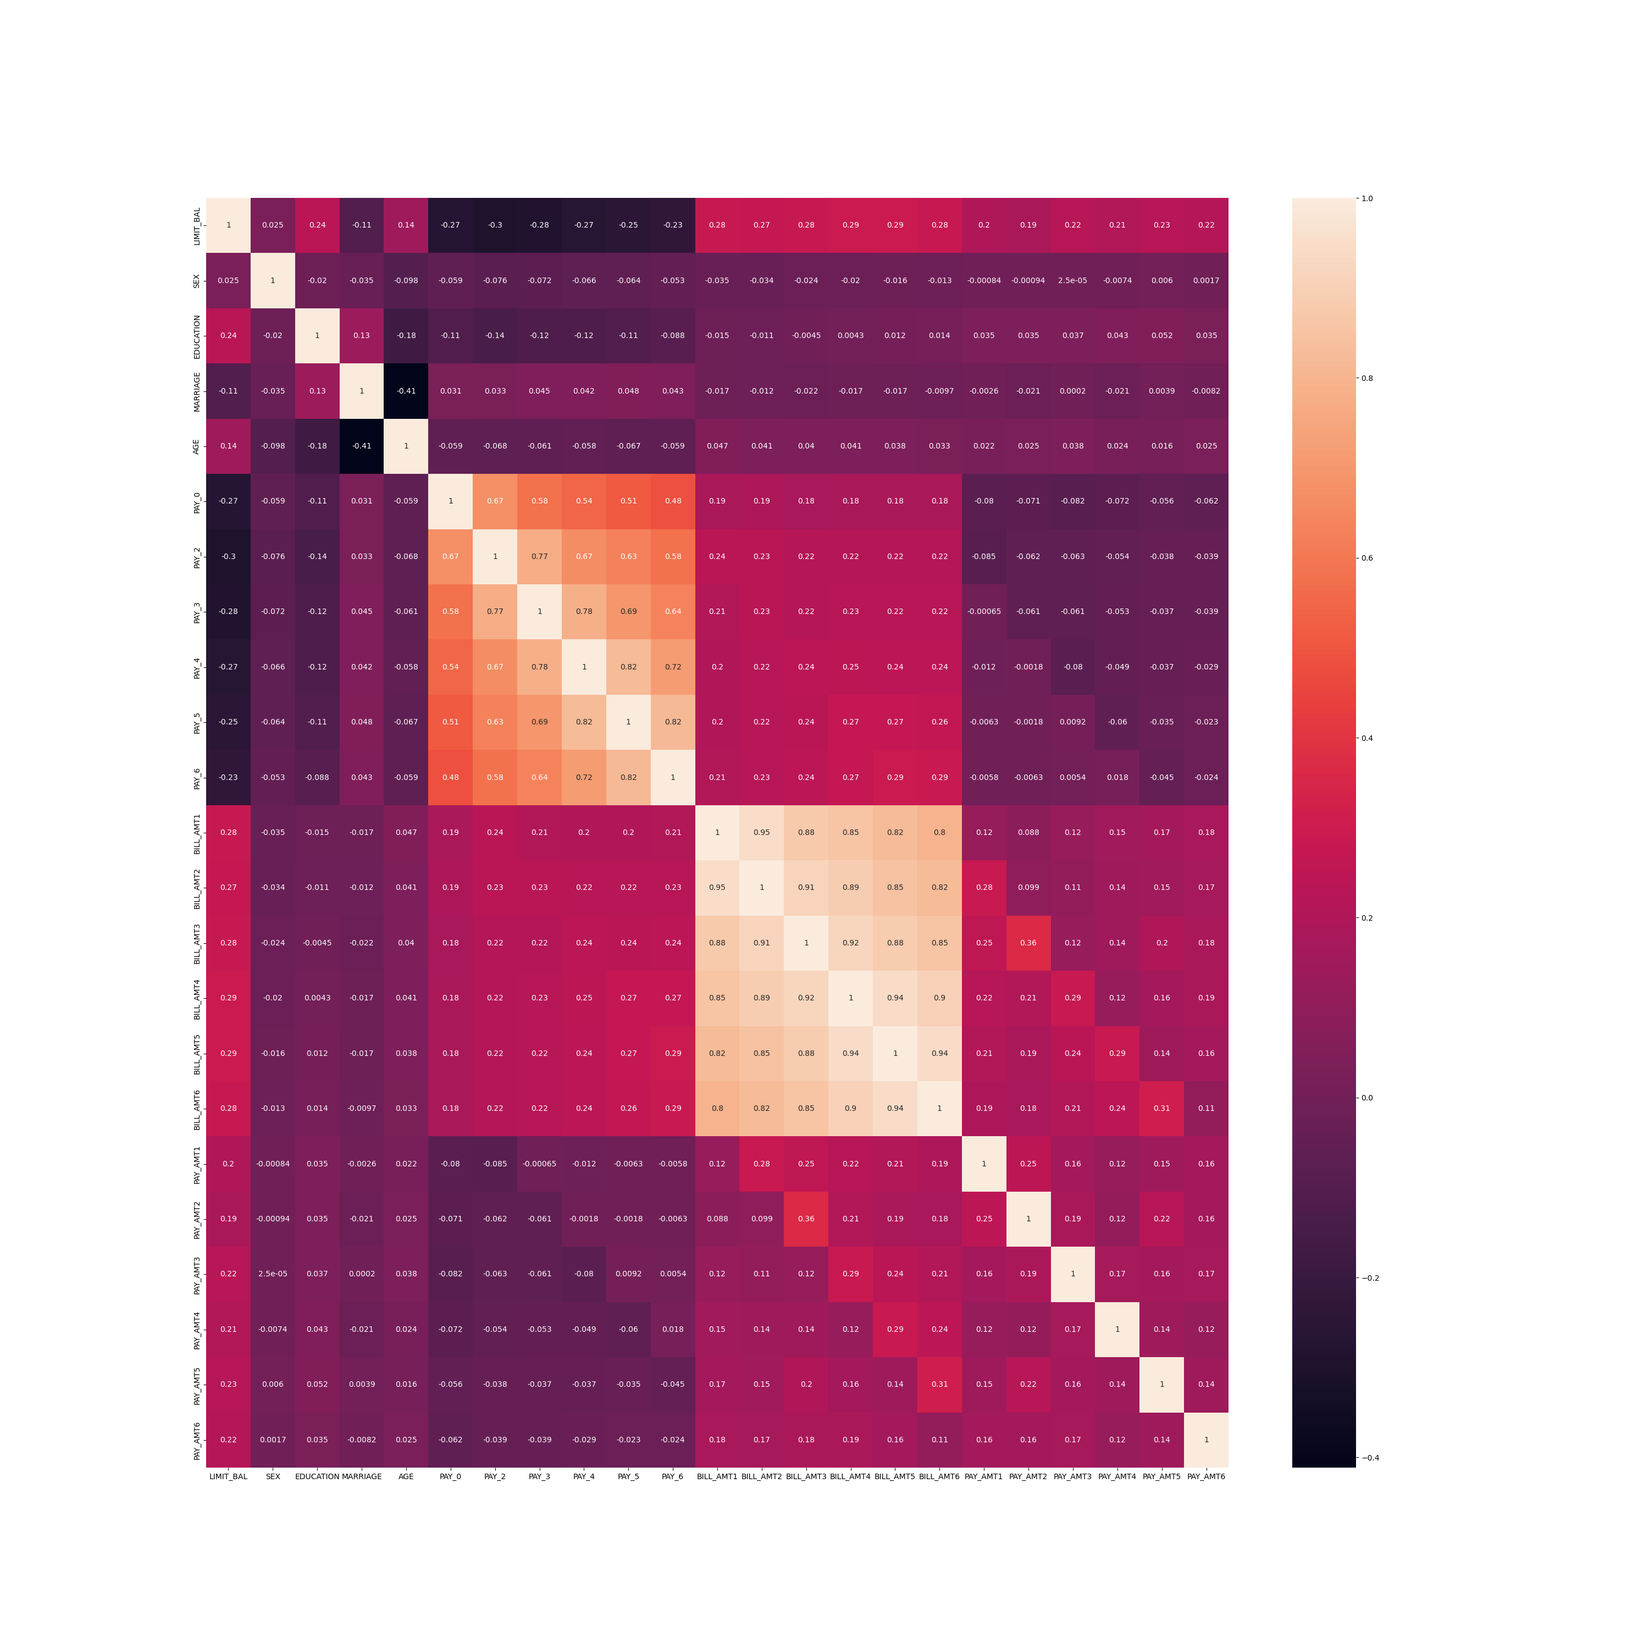
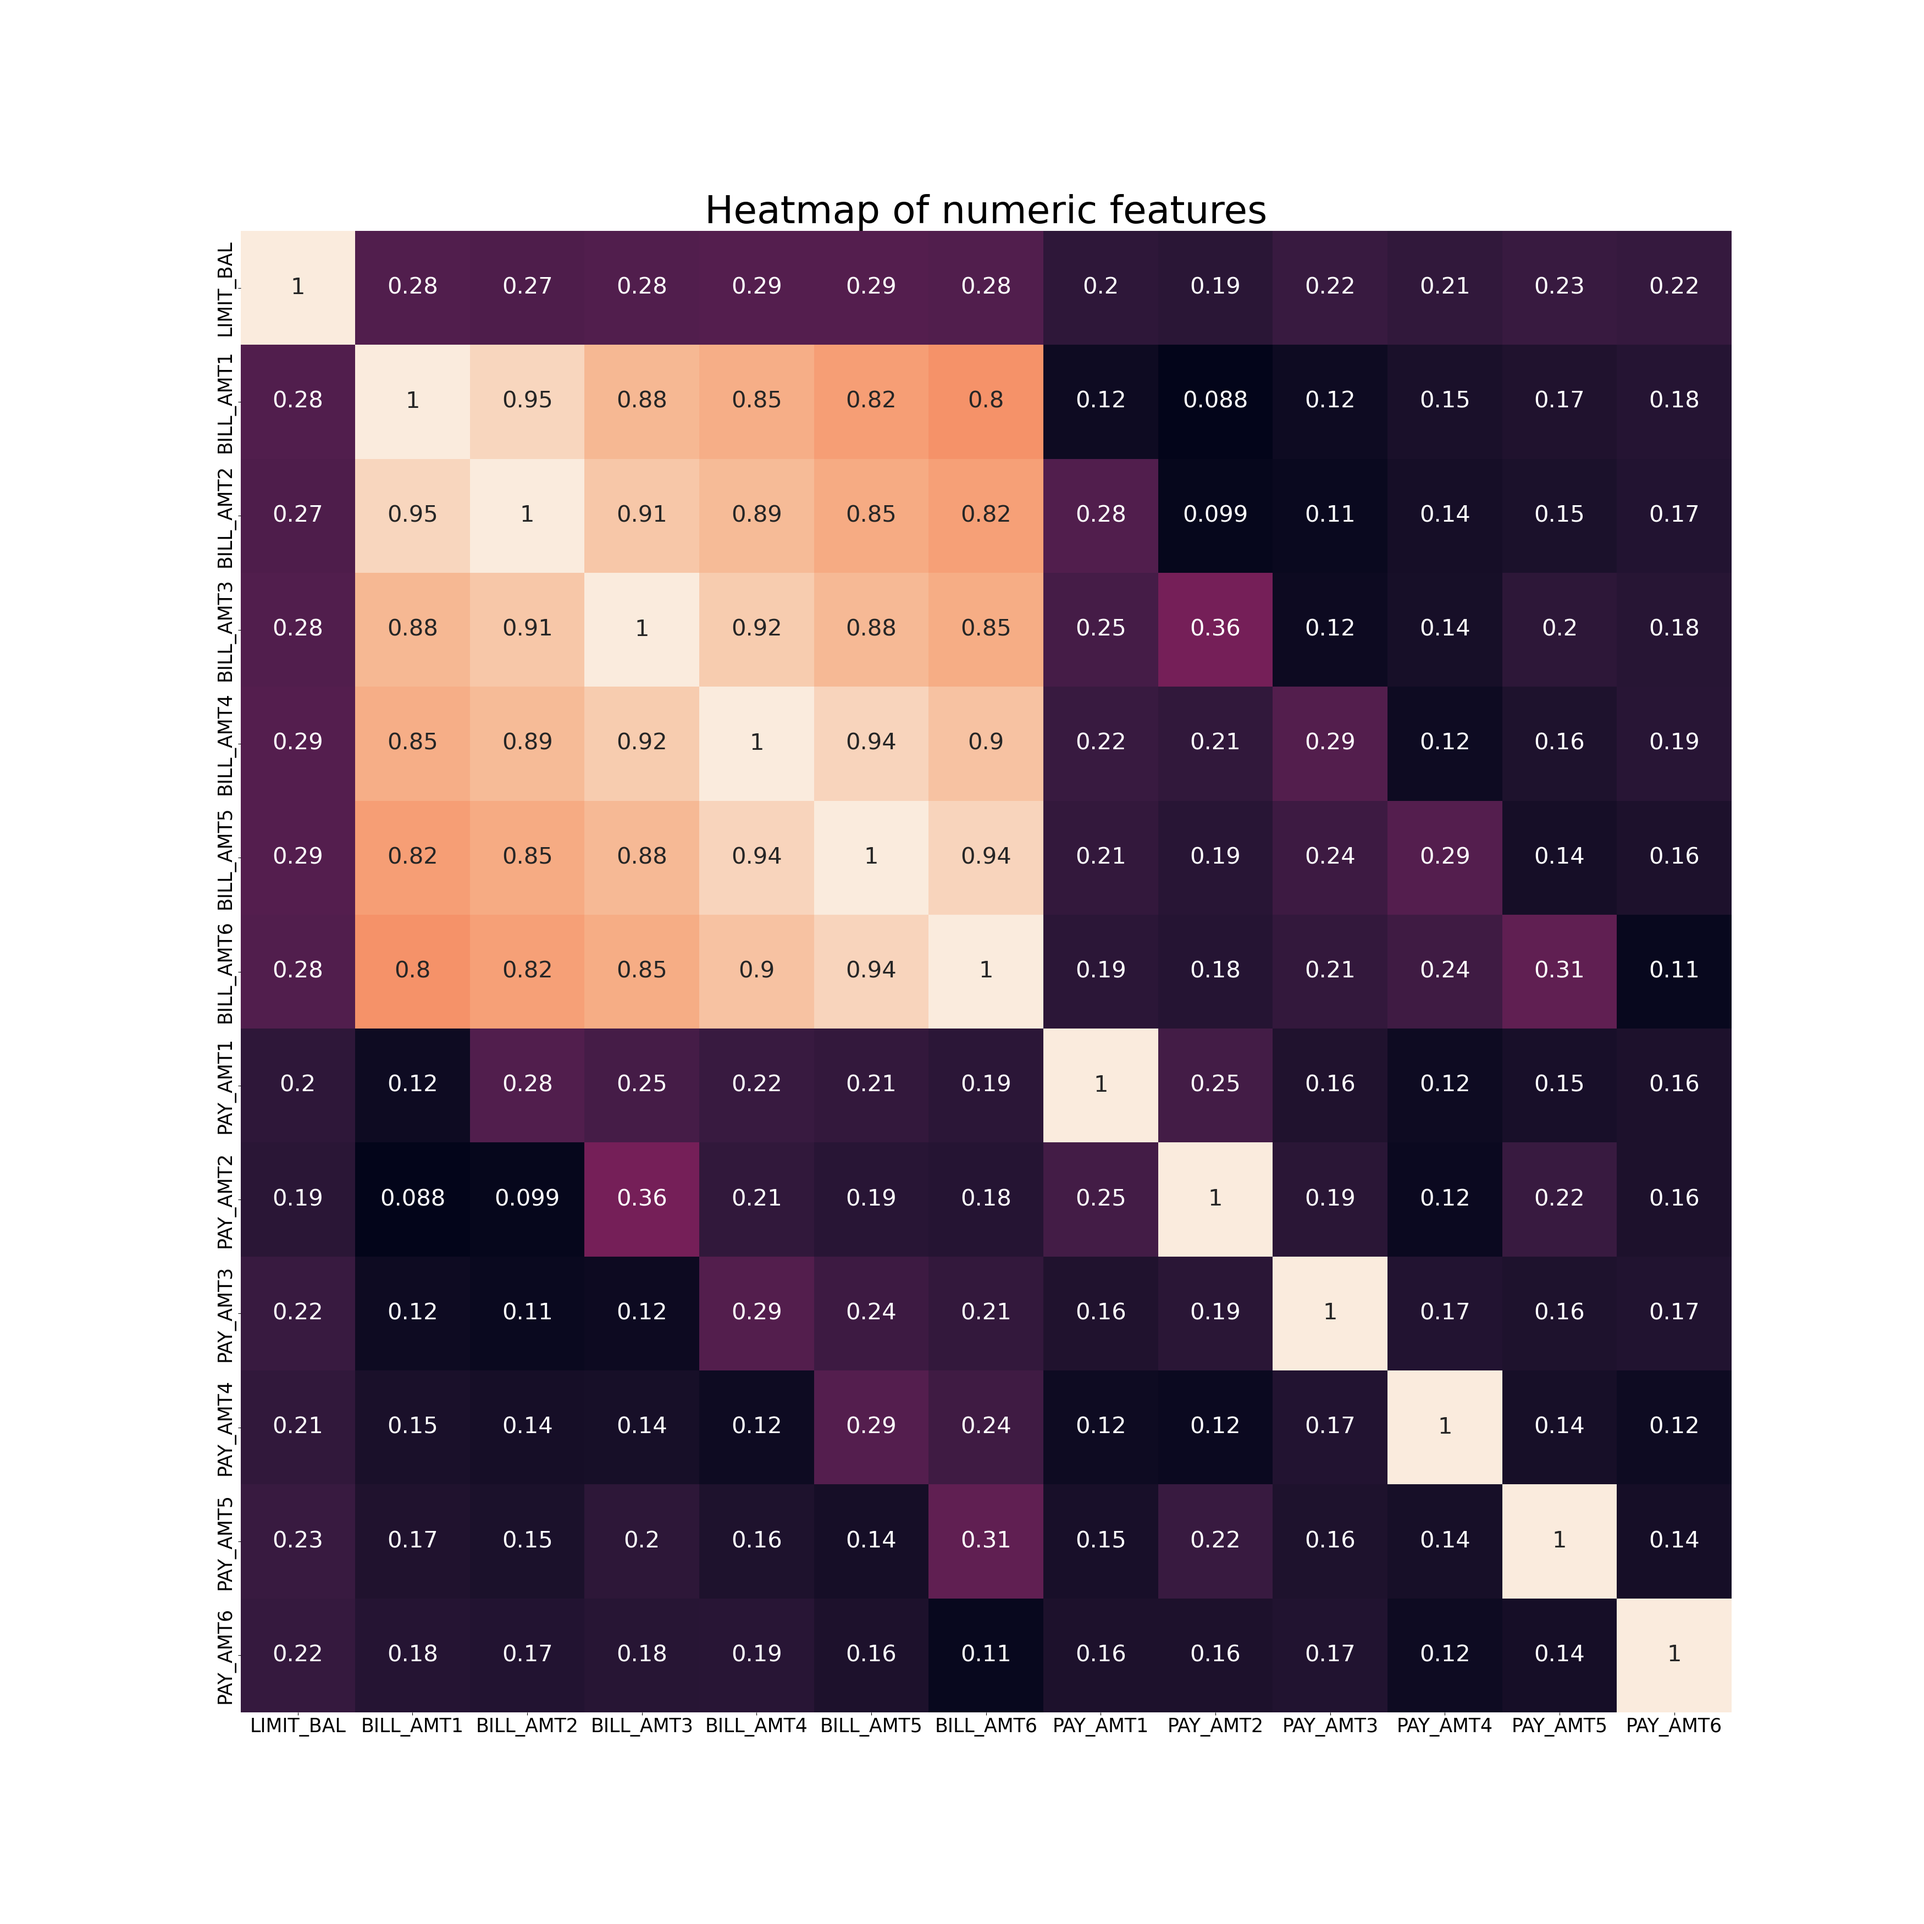
color_bar

diff --git a/src/eda_script.py b/src/eda_script.py
@@ -41,29 +41,7 @@ def main(processed_data_path, eda_result_path):
     eda_result_path : string
         Local File Path where the result of eda  saved in.
     """
-    # Referenced from Joel.
-    def save_chart(chart, filename, scale_factor=1):
-        """
-        Save an Altair chart using vl-convert
 
-        Parameters
-        ----------
-        chart : altair.Chart
-        Altair chart to save
-        ilename : str
-        The path to save the chart to
-        scale_factor: int or float
-        The factor to scale the image resolution by.
-        E.g. A value of `2` means two times the default resolution.
-        """
-        if filename.split(".")[-1] == "svg":
-            with open(filename, "w") as f:
-                f.write(vlc.vegalite_to_svg(chart.to_dict()))
-        elif filename.split(".")[-1] == "png":
-            with open(filename, "wb") as f:
-                f.write(vlc.vegalite_to_png(chart.to_dict(), scale=scale_factor))
-        else:
-            raise ValueError("Only svg and png formats are supported")
 
     try:
         df = pd.read_csv(processed_data_path)
@@ -98,13 +76,17 @@ def main(processed_data_path, eda_result_path):
     ].astype("category")
 
     # pie chart
+    plt.figure(figsize=(15, 15))
     plt.pie(
         credit_df["default_payment_next_month"].value_counts(),
         labels=["Not defaulting the payment", "Defaulting the payment"],
-        colors=["#d5695d", "#5d8ca8"],
+        colors=["#d2b48c", "#808080"],
         autopct="%.2f%%",
+        textprops={'fontsize': 18}
     )
-    plt.title("Proportion of Target Classes")
+    plt.legend(fontsize=15)
+
+    plt.title("Proportion of Target Classes",fontsize=25)
     plt.plot()
     plt.savefig("./" + eda_result_path + "/eda/images/target_proportion.jpg")
 
@@ -113,15 +95,7 @@ def main(processed_data_path, eda_result_path):
 
 
 
-    # heatmap
-    # corr_df = credit_df.corr().stack().reset_index(name="corr")
-    
-    plt.figure(figsize=(30, 30))
-    corr_plot=sns.heatmap(credit_df.corr(), annot=True).get_figure()
-    corr_plot.savefig("./" + eda_result_path + "/eda/images/corr_plot.png")
 
-    ##test assert if heatmap created
-    assert corr_plot is not None
 
     ##default-undefualt
     credit_df["Defaulting or not"] = "not defaulting"
@@ -182,6 +156,24 @@ def main(processed_data_path, eda_result_path):
 
     ##test assert if categorical dis created
     assert categorical_dis is not None
+    
+    
+    
+    # heatmap
+    # corr_df = credit_df.corr().stack().reset_index(na me="corr")
+    
+    plt.figure(figsize=(35, 35))
+    corr_plot=sns.heatmap(credit_df.loc[:,num_cols].drop('AGE',axis=1).corr(), annot=True,annot_kws={"fontsize":30},cbar=False).get_figure()
+    
+    plt.title('Heatmap of numeric features', fontsize = 50)
+    plt.xticks(fontsize=25)
+    plt.yticks(fontsize=25)
+
+    corr_plot.savefig("./" + eda_result_path + "/eda/images/corr_plot.png")
+    # annot_kws={"fontsize":20}
+    ##test assert if heatmap created
+    assert corr_plot is not None
+    
 
     print("output saved every things done")
 
